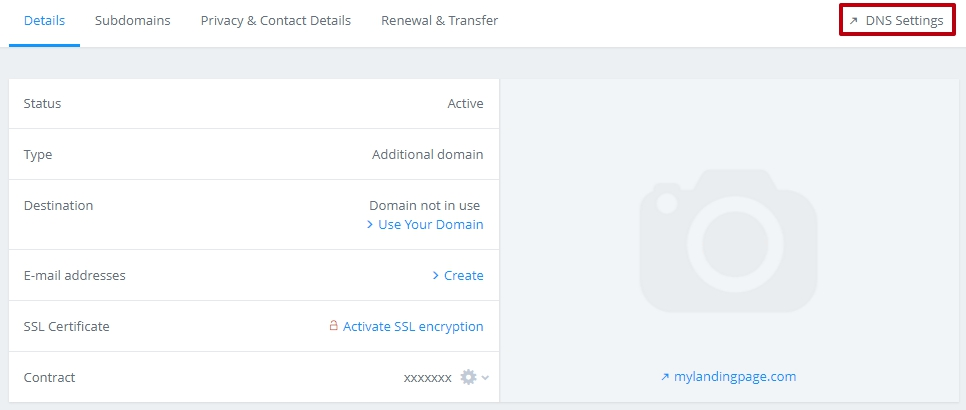
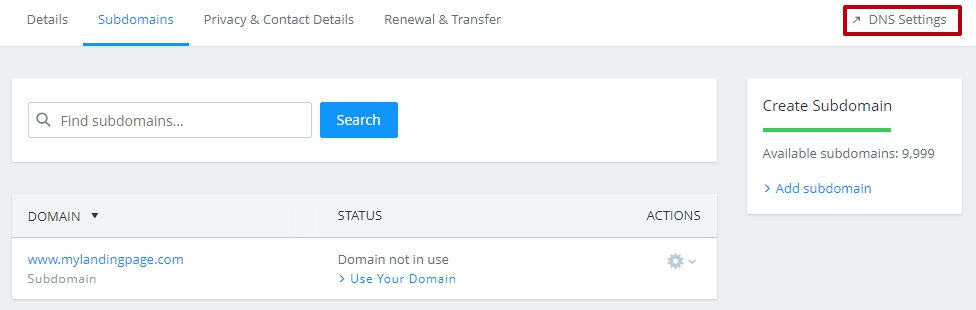
..

diff --git a/publishing/third-party-domains/1and12/index.rst b/publishing/third-party-domains/1and12/index.rst
@@ -83,12 +83,22 @@ If you purchased a domain from 1and1.com, you can use it for your BitBlox Landin
 	
 	.. class:: screenshot
 
-		|add-wwww|
+		|add-www|
 
-		
-		
-		
-		
+13. Click on the **DNS Settings** in the right corner of the page		
+	
+.. class:: screenshot
+
+		|click-dns-settings-1and1|
+
+	
+
+
+
+
+
+
+	
 		
 .. note::
 
@@ -113,8 +123,8 @@ For more help with settings in your 1and1.com account, contact their `support te
 .. |click-manage-domain-1and1| image:: _images/click-manage-domain-1and1.jpg
 .. |open-subdomains-tab| image:: _images/open-subdomains-tab.jpg
 .. |click-add-subdomain| image:: _images/click-add-subdomain.jpg
-.. |add-wwww| image:: _images/add-www.jpg
-
+.. |add-www| image:: _images/add-www.jpg
+.. |click-dns-settings-1and1| image:: _images/click-dns-settings-1and1.jpg
 
 
 
